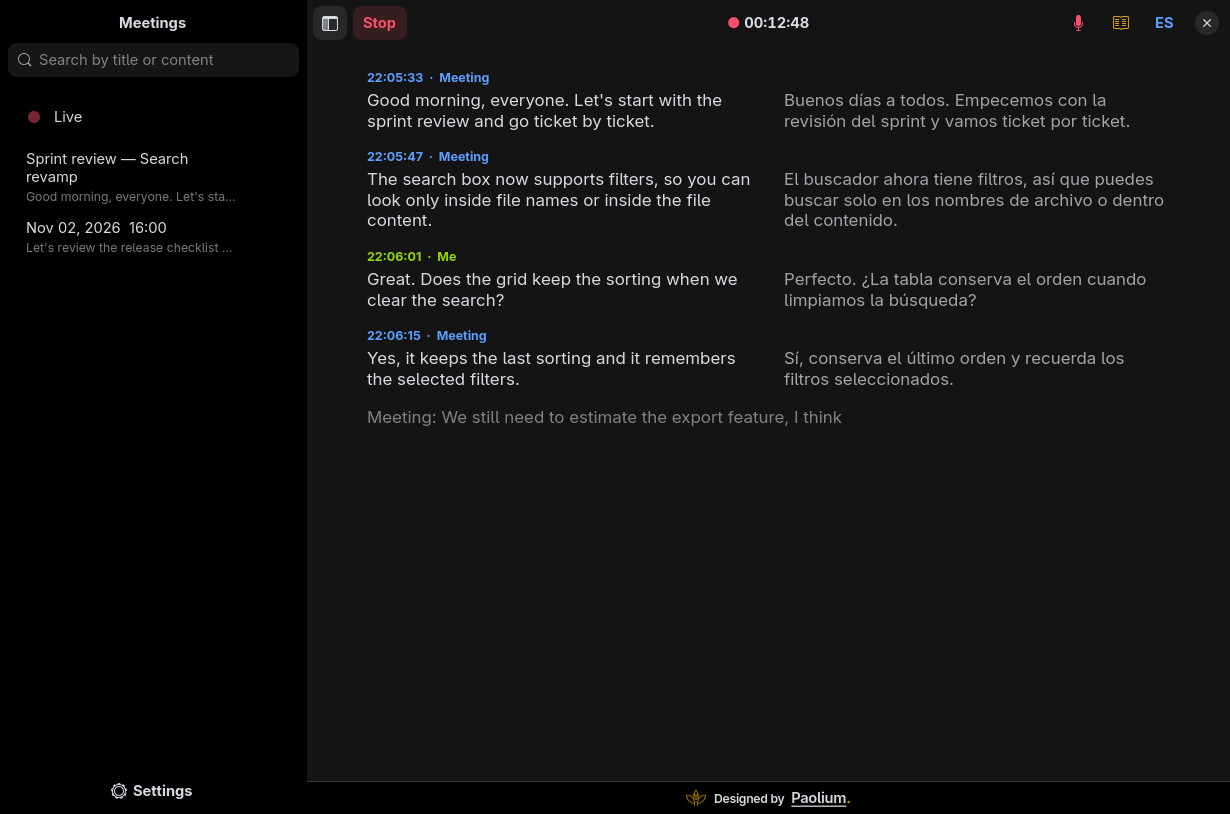
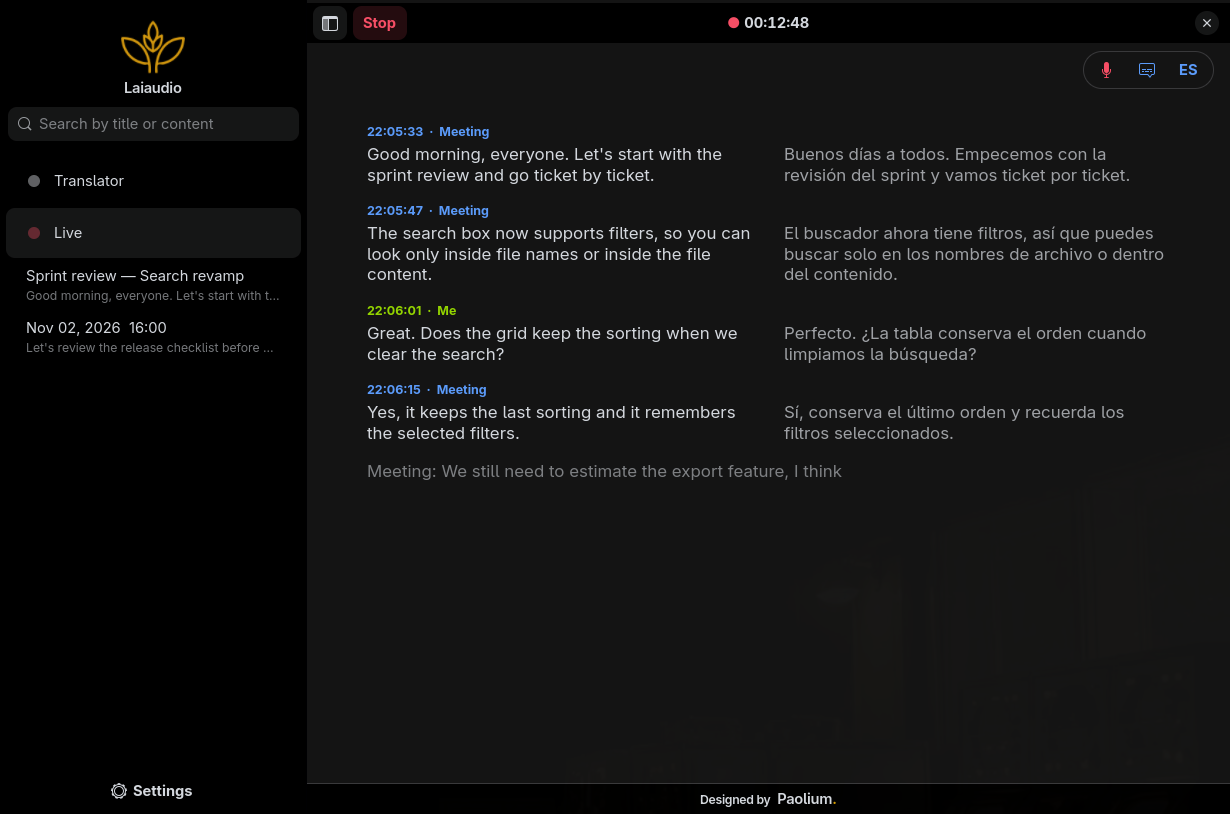
Update the README screenshots for the new layout

diff --git a/README.md b/README.md
@@ -48,8 +48,8 @@ real conversations:
 | **Models on demand** | Choose and download models from Settings, with clear trade-offs. Nothing to install by hand. |
 
 <div align="center">
-<img src="docs/images/meeting.png" alt="Saved meeting preview with title, copy, file manager and delete actions" width="440">
-<img src="docs/images/settings.png" alt="Settings with hardware-aware model selection" width="440">
+<img src="docs/images/meeting.png" alt="Saved meeting preview with copy, edit title, file manager and delete actions" width="440">
+<img src="docs/images/settings.png" alt="Settings page with tabs and hardware-aware model selection" width="440">
 </div>
 
 ## Privacy first
